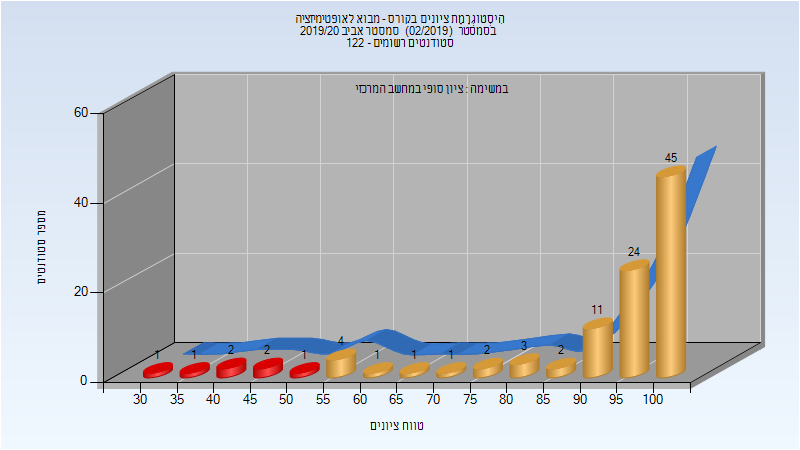
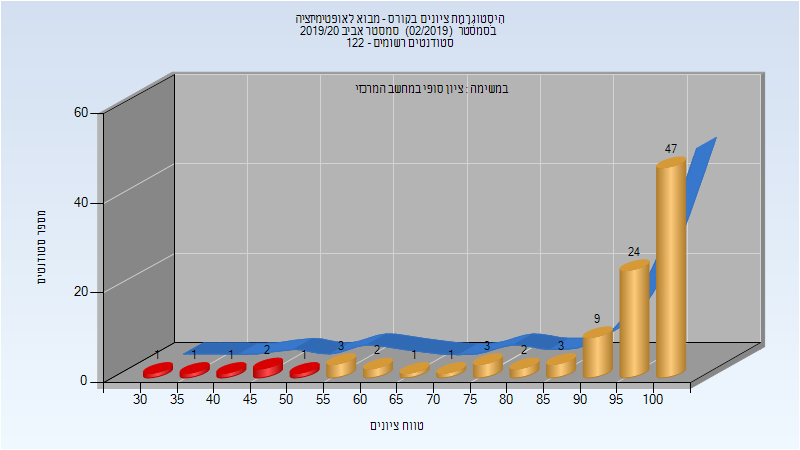
Deploy michael-maltsev/technion-histograms to github.com/michael-maltsev/technion-histograms.git:gh-pages

diff --git a/236330/index.html b/236330/index.html
@@ -217,11 +217,11 @@
 <tbody>
 <tr>
 <td>101</td>
-<td>94/7</td>
-<td>93</td>
+<td>95/6</td>
+<td>94</td>
 <td>33</td>
 <td>100</td>
-<td>90.545</td>
+<td>91.168</td>
 <td>99</td>
 </tr>
 </tbody>

diff --git a/236330/README.md b/236330/README.md
@@ -68,5 +68,5 @@
 
 | סטודנטים | עברו/נכשלו | אחוז עוברים | ציון מינימלי | ציון מקסימלי | ממוצע | חציון |
 | ---- | ---- | ---- | ---- | ---- | ---- | ---- |
-| 101 | 94/7 | 93 | 33 | 100 | 90.545 | 99 |
+| 101 | 95/6 | 94 | 33 | 100 | 91.168 | 99 |
 
